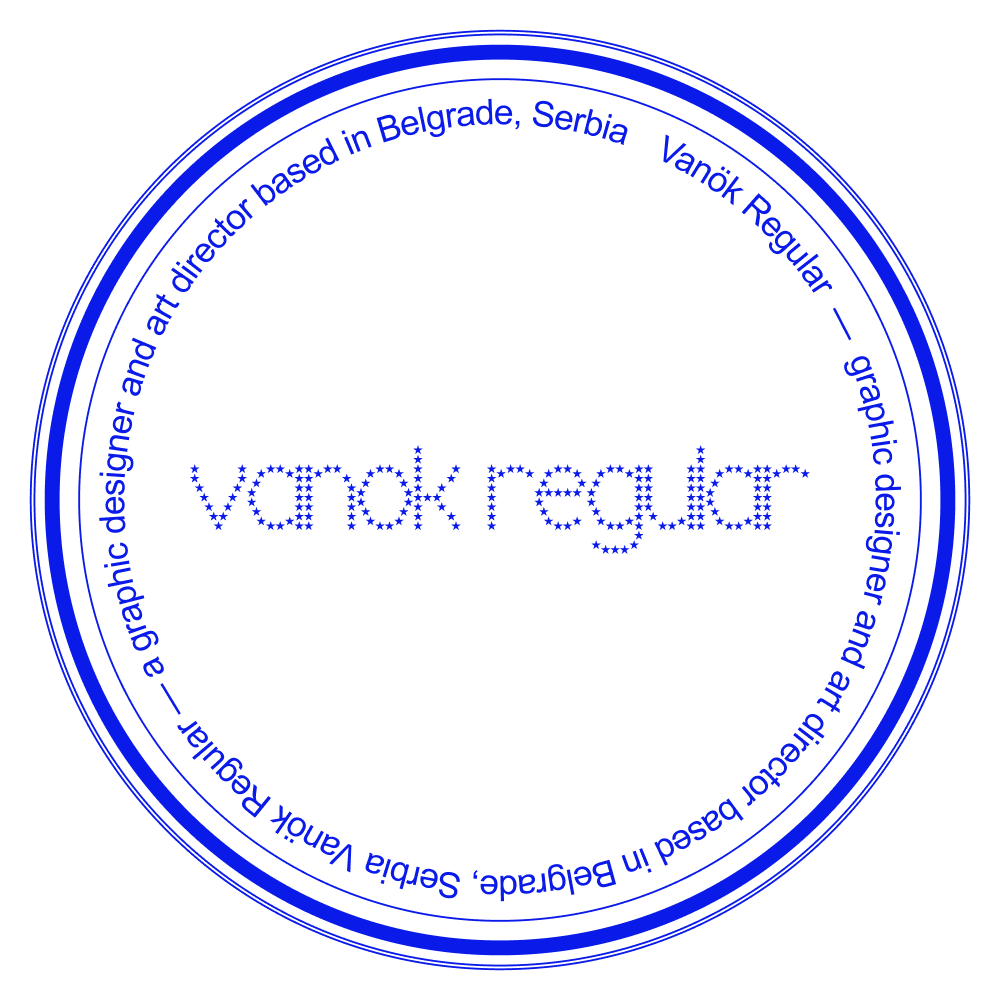
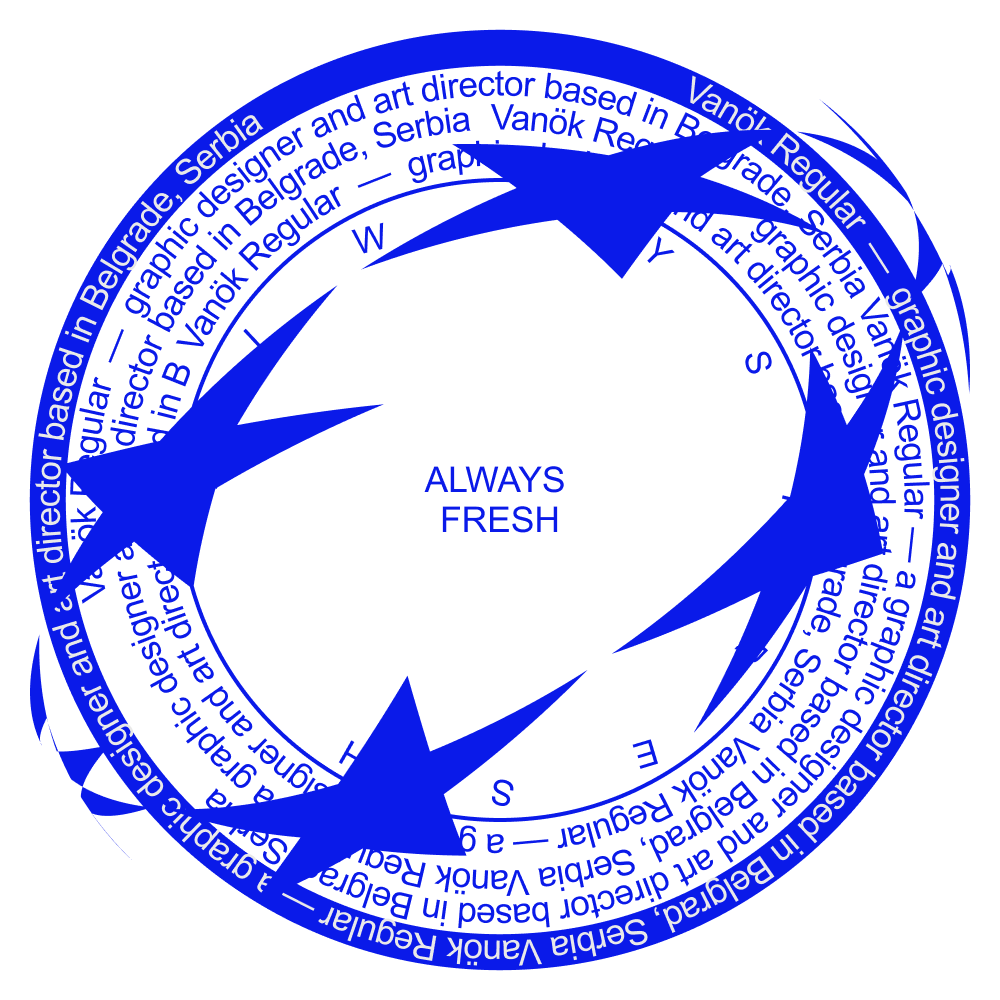
Let the apple roll home while it is still spinning, and take the next click as soon as it is back.
The old ease flattened the return, so the apple looked finished while the click stayed locked. The settle now slows the move and the spin together, and a click in the resting spot starts another roll. The default seal is the new blue artwork. A hover dips the apple and a press dips it further; on touch only the press dip remains, without the browser tap flash.

Changed region(s): [[0.031, 0.031, 0.992, 0.992], [0.31, 0.279, 0.341, 0.31]]

diff --git a/index.html b/index.html
@@ -70,7 +70,21 @@ j=d.createElement(s),dl=l!='dataLayer'?'&l='+l:'';j.async=true;j.src=
     color: #ffffff;
   }
 
-  * { box-sizing: border-box; }
+  * {
+    box-sizing: border-box;
+    -webkit-tap-highlight-color: transparent;
+  }
+  /* Touch browsers paint a gray tap flash and a focus ring after a tap.
+     Keyboard focus on a fine pointer is left alone. The signature field
+     keeps its caret; this only removes the browser chrome. */
+  @media (hover: none), (pointer: coarse) {
+    :focus,
+    :focus-visible,
+    :active {
+      outline: none;
+      -webkit-tap-highlight-color: transparent;
+    }
+  }
 
   html, body {
     margin: 0;
@@ -435,7 +449,7 @@ j=d.createElement(s),dl=l!='dataLayer'?'&l='+l:'';j.async=true;j.src=
     transform: translate(-50%, -50%);
     visibility: hidden;
   }
-  @media (hover: hover) {
+  @media (hover: hover) and (pointer: fine) {
     .site-credits:hover .credits-full { visibility: hidden; }
     .site-credits:hover .credits-name { visibility: visible; }
   }
@@ -1234,7 +1248,7 @@ j=d.createElement(s),dl=l!='dataLayer'?'&l='+l:'';j.async=true;j.src=
   }
   .draw-sig-btn.is-held,
   .catalog-entry.is-held { visibility: hidden; pointer-events: none; }
-  @media (hover: hover) {
+  @media (hover: hover) and (pointer: fine) {
     html.page-ready .draw-sig-btn,
     html.page-ready .catalog-entry,
     html.page-ready .ig-link,
@@ -4814,22 +4828,28 @@ function mountViewportApple() {
   // rounded to whole turns so the euler ends on 69.7 / -172.9 / -33.2.
   // followPointer writes that roll into the quaternion every frame.
   //
-  // APPLE_ROLL_MS is the 1× duration of that whole circle under easeSlow, the
-  // curve this roll already uses. On screen — exit and return — each arc still
-  // costs that time, so the visible speed stays. Off screen the center is
-  // outside the viewport by half the fitted on-screen size (the body has
-  // cleared the edge), and that arc costs half the time: 2×. The click ends
-  // on the resting pose, sooner than APPLE_ROLL_MS by half the off-screen
-  // time. Radii are unchanged. Spin stays tied to arc length, so the faster
-  // off-screen arc also spins at 2× and no extra turn is added.
-  // easeSlow is flat at the finish, so the apple is already on the resting
-  // pose while the clock still has about two seconds left. The click lock
-  // ends on that pose. A click during the roll is ignored and is not queued.
+  // APPLE_ROLL_MS is the 1× duration of the outbound circle under easeSlow.
+  // On screen the exit keeps that timing. Off screen the center is outside
+  // the viewport by half the fitted size, and that arc costs half the time.
+  // Spin stays tied to arc length, so the faster off-screen arc spins at 2×
+  // and no extra turn is added. The return does not keep easeSlow's flat
+  // tail: once the apple is back on screen it drives home on a settle whose
+  // translation and rotation ease out together and reach the resting pose
+  // with no snap. A click while it is clearly away is ignored and not queued.
+  // A click once it is visually back in the resting spot starts the next roll
+  // immediately, including during the last of that settle.
   const APPLE_ROLL_MS = 11000;
   const APPLE_ROLL_STEPS = 480;
+  const APPLE_DIP_HOVER = 8;
+  const APPLE_DIP_PRESS = 18;
   const rollQuat = new THREE.Quaternion();
   const rollAxis = new THREE.Vector3();
   let appleRoll = null;
+  let appleHovering = false;
+  let applePressing = false;
+  let applePressAt = 0;
+  let appleDip = 0;
+  let appleDipClock = performance.now();
   function appleRollSpec() {
     const mobile = matchMedia('(max-width: 440px)').matches;
     const h = Math.max(innerHeight, 1);
@@ -4838,22 +4858,53 @@ function mountViewportApple() {
     }
     return { radius: h * 0.21, theta0: -160 * Math.PI / 180, dir: -1 };
   }
-  // Home again: center within 1px and tumble within 2°. u <= 0.5 is the
-  // departure, so the lock stays up until the apple has come back.
-  function appleRollArrived(spec, u) {
-    if (u >= 1) return true;
-    if (!(u > 0.5)) return false;
-    const chord = 2 * spec.radius * Math.abs(Math.sin(Math.PI * u));
-    if (chord > 1) return false;
-    const turns = Math.max(1, Math.round(spec.radius / appleScreenRadius()));
-    return 360 * turns * (1 - u) <= 2;
+  function appleRollChord(spec, u) {
+    return 2 * spec.radius * Math.abs(Math.sin(Math.PI * u));
   }
+  // Visually back in the seat. Wider than a pixel, so the last settle does
+  // not leave a dead gap after the apple already looks home. u <= 0.5 is
+  // the departure and stays locked.
+  function appleInRestSpot(spec, u) {
+    if (!(u > 0.5)) return false;
+    return appleRollChord(spec, u) <= Math.max(16, appleScreenRadius() * 0.26);
+  }
+  function appleRollU(elapsed) {
+    if (!appleRoll) return 1;
+    return appleRollParam(appleRoll.clock, elapsed == null ? performance.now() - appleRoll.start : elapsed);
+  }
+  // Still playing, including the settle. This is not the click lock.
   function appleRolling() {
     if (!appleRoll) return false;
     const elapsed = performance.now() - appleRoll.start;
     if (elapsed >= appleRoll.clock.duration) return false;
-    const u = appleRollParam(appleRoll.clock, elapsed);
-    return !appleRollArrived(appleRoll.spec, u);
+    const u = appleRollU(elapsed);
+    return u > 0 && u < 1;
+  }
+  // Clearly away on the circle. Clicks here are dropped, not queued.
+  function appleRollAway() {
+    if (!appleRolling()) return false;
+    return !appleInRestSpot(appleRoll.spec, appleRollU());
+  }
+  function appleFinePointer() {
+    return matchMedia('(hover: hover) and (pointer: fine)').matches;
+  }
+  function appleNearHome() {
+    if (!appleRoll) return true;
+    return appleRollChord(appleRoll.spec, appleRollU()) <= Math.max(36, appleScreenRadius() * 0.5);
+  }
+  function appleDipTarget() {
+    const pressAge = performance.now() - applePressAt;
+    if (applePressing && (appleNearHome() || pressAge < 160)) return APPLE_DIP_PRESS;
+    if (!appleRollAway() && appleFinePointer() && appleHovering) return APPLE_DIP_HOVER;
+    return 0;
+  }
+  function stepAppleDip() {
+    const now = performance.now();
+    const dt = Math.min(0.05, Math.max(0, (now - appleDipClock) / 1000));
+    appleDipClock = now;
+    const target = appleDipTarget();
+    appleDip += (target - appleDip) * (1 - Math.exp(-dt * 26));
+    if (Math.abs(target - appleDip) < 0.04) appleDip = target;
   }
   function appleScreenRadius() {
     const w = Math.max(innerWidth, 2);
@@ -4907,9 +4958,13 @@ function mountViewportApple() {
     const m = layout.margin;
     return x < -m || y < -m || x > layout.w + m || y > layout.h + m;
   }
-  // Arc-length clock. easeAt[i] is the old easeSlow time-fraction at u=i/steps.
-  // On screen, wall time advances with that fraction (1×). Off screen it
-  // advances twice as fast (2×). u itself stays the arc parameter.
+  // Arc-length clock for the outbound roll. easeAt[i] is the easeSlow
+  // time-fraction at u=i/steps. On screen, wall time advances with that
+  // fraction (1×). Off screen it advances twice as fast (2×). Once the apple
+  // has come back on screen, the remaining arc is a settle: same circle, spin
+  // still tied to arc length, speed matched at the handoff and eased to zero
+  // at home. If the path never leaves the screen, the settle starts after the
+  // outbound half so the departure itself stays on easeSlow.
   function appleRollClock(spec) {
     const steps = APPLE_ROLL_STEPS;
     const times = new Float64Array(steps + 1);
@@ -4923,19 +4978,42 @@ function mountViewportApple() {
       c0: Math.cos(spec.theta0),
       s0: Math.sin(spec.theta0),
     };
+    let seenOff = false;
+    let arriveStep = 0;
     for (let i = 0; i < steps; i++) {
       const u1 = (i + 1) / steps;
       const ease = i + 1 === steps ? 1 : appleRollEaseInverse(u1);
-      const off = appleRollOffScreen(spec, layout, (i + 0.5) / steps);
+      const uMid = (i + 0.5) / steps;
+      const off = appleRollOffScreen(spec, layout, uMid);
+      if (uMid > 0.5 && off) seenOff = true;
+      if (!arriveStep && seenOff && !off && uMid > 0.5) arriveStep = i + 1;
       const dtOld = Math.max(0, (ease - easeAt[i]) * APPLE_ROLL_MS);
       times[i + 1] = times[i] + dtOld / (off ? 2 : 1);
       easeAt[i + 1] = ease;
     }
-    return { times, easeAt, steps, duration: times[steps] };
+    if (!arriveStep) arriveStep = Math.round(steps * 0.62);
+    const arriveTime = times[arriveStep];
+    const arriveU = easeSlow(Math.min(1, Math.max(0, easeAt[arriveStep])));
+    const partial = { times, easeAt, steps };
+    const back = Math.min(28, Math.max(8, arriveTime));
+    const uBack = arriveTime > back ? appleRollEaseU(partial, arriveTime - back) : easeSlow(Math.min(1, easeAt[Math.max(0, arriveStep - 1)]));
+    const duDt = Math.max(1e-4, (arriveU - uBack) / (Math.min(back, arriveTime) / 1000));
+    // Quadratic ease-out has p'(0) = 2, so the duration that matches the
+    // incoming speed is twice the constant-speed time. It only slows down.
+    let settleMs = 2 * (1 - arriveU) / duDt * 1000;
+    if (!Number.isFinite(settleMs)) settleMs = 1200;
+    settleMs = Math.min(3400, Math.max(480, settleMs));
+    return {
+      times,
+      easeAt,
+      steps,
+      arriveTime,
+      arriveU,
+      settleMs,
+      duration: arriveTime + settleMs,
+    };
   }
-  function appleRollParam(clock, elapsed) {
-    if (elapsed <= 0) return 0;
-    if (elapsed >= clock.duration) return 1;
+  function appleRollEaseU(clock, elapsed) {
     const times = clock.times;
     let lo = 1;
     let hi = clock.steps;
@@ -4950,10 +5028,21 @@ function mountViewportApple() {
     const ease = clock.easeAt[lo - 1] + (clock.easeAt[lo] - clock.easeAt[lo - 1]) * f;
     return easeSlow(Math.min(1, Math.max(0, ease)));
   }
+  function appleRollParam(clock, elapsed) {
+    if (elapsed <= 0) return 0;
+    if (elapsed >= clock.duration) return 1;
+    if (!(elapsed > clock.arriveTime)) return appleRollEaseU(clock, elapsed);
+    const s = Math.min(1, (elapsed - clock.arriveTime) / clock.settleMs);
+    // Ease-out: p'(0) = 2 and p'(1) = 0, and the slope only falls. Translation
+    // and spin share s, so the apple is still turning as it rolls to a stop.
+    const remain = 1 - s;
+    const p = 1 - remain * remain;
+    return clock.arriveU + (1 - clock.arriveU) * p;
+  }
   function appleRollSample() {
     if (!appleRoll) return null;
-    const u = appleRollParam(appleRoll.clock, performance.now() - appleRoll.start);
-    if (!(u > 0) || appleRollArrived(appleRoll.spec, u)) return null;
+    const u = appleRollU();
+    if (!(u > 0) || u >= 1) return null;
     const spec = appleRoll.spec;
     const theta = spec.theta0 + spec.dir * Math.PI * 2 * u;
     const c0 = Math.cos(spec.theta0);
@@ -4969,7 +5058,7 @@ function mountViewportApple() {
   }
   function startAppleRoll() {
     if (matchMedia('(prefers-reduced-motion: reduce)').matches) return;
-    if (appleRolling()) return;
+    if (appleRollAway()) return;
     const spec = appleRollSpec();
     appleRoll = { start: performance.now(), spec, clock: appleRollClock(spec) };
   }
@@ -5139,10 +5228,13 @@ function mountViewportApple() {
     const h = Math.max(innerHeight, 1);
     gaze.x = (event.clientX / w) * 2 - 1;
     gaze.y = (event.clientY / h) * 2 - 1;
+    if (event.pointerType === 'touch' || !appleFinePointer()) appleHovering = false;
+    else appleHovering = hitsViewportApple(event);
   }
   function onPointerLeave() {
     gaze.x = 0;
     gaze.y = 0;
+    appleHovering = false;
   }
 
   function hitsViewportApple(event) {
@@ -5180,7 +5272,7 @@ function mountViewportApple() {
     if (event.pointerType === 'touch' && event.isPrimary === false) return;
     if (uiOwnsPointer(event)) return;
     if (!hitsViewportApple(event)) return;
-    if (appleRolling()) {
+    if (appleRollAway()) {
       holdStampForAppleGesture();
       const token = dragBlockToken;
       setTimeout(() => {
@@ -5189,6 +5281,8 @@ function mountViewportApple() {
       if (event.cancelable) event.preventDefault();
       return;
     }
+    applePressing = true;
+    applePressAt = performance.now();
     startAppleRoll();
     drag.active = true;
     drag.pointerId = event.pointerId;
@@ -5214,6 +5308,7 @@ function mountViewportApple() {
   }
 
   function onApplePointerUp(event) {
+    if (event.pointerId === drag.pointerId) applePressing = false;
     if (!drag.active || event.pointerId !== drag.pointerId) return;
     drag.active = false;
     releaseStampAfterAppleGesture();
@@ -5261,7 +5356,7 @@ function mountViewportApple() {
     if (appleModel) appleModel.scale.setScalar(0.78 * poseSize);
     const roll = appleRollSample();
     const enterX = appleEnterXOffset() + (roll ? roll.dx : 0);
-    const enterY = appleEnterOffset() + (roll ? roll.dy : 0);
+    const enterY = appleEnterOffset() + (roll ? roll.dy : 0) + appleDip;
     tilt.position.set(
       ((VIEW_APPLE.xPx + enterX) / w) * viewW - viewW / 2,
       0,
@@ -5945,9 +6040,11 @@ function mountViewportApple() {
   renderer.setAnimationLoop(() => {
     if (!alive) return;
     maybeStartAppleEnter();
+    stepAppleDip();
     const flying = !!(appleEnter && performance.now() - appleEnter.start < appleEnter.ms);
     const rolling = appleRolling();
-    if (!appleEnter || flying || !appleEnter.settled || rolling) {
+    const dipping = appleDip > 0.04 || appleDipTarget() > 0;
+    if (!appleEnter || flying || !appleEnter.settled || rolling || dipping) {
       if (appleEnter && !flying) appleEnter.settled = true;
       applyKeyLightAndPlace();
     }
@@ -6069,6 +6166,10 @@ function mountViewportApple() {
       enterMs: appleEnter ? appleEnter.ms : fly.ms,
       enterEaseName: appleEnter ? appleEnter.ease : fly.ease,
       tiltZ: tilt.position.z,
+      rollU: appleRoll ? Math.round(appleRollU() * 1000) / 1000 : 0,
+      rollAway: appleRollAway(),
+      rollChord: appleRoll ? Math.round(appleRollChord(appleRoll.spec, appleRollU()) * 10) / 10 : 0,
+      dip: Math.round(appleDip * 10) / 10,
     };
   }
   readViewportApple.set = (patch) => {
